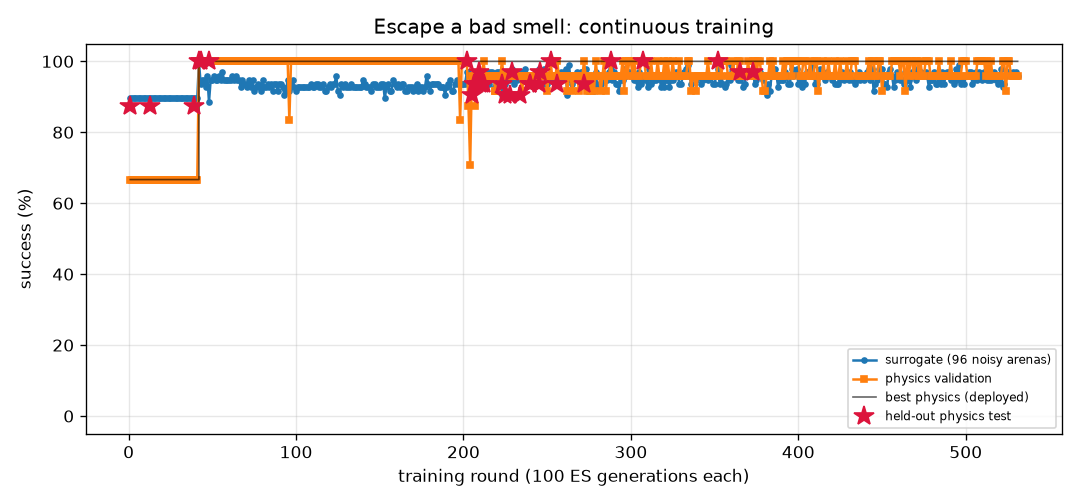
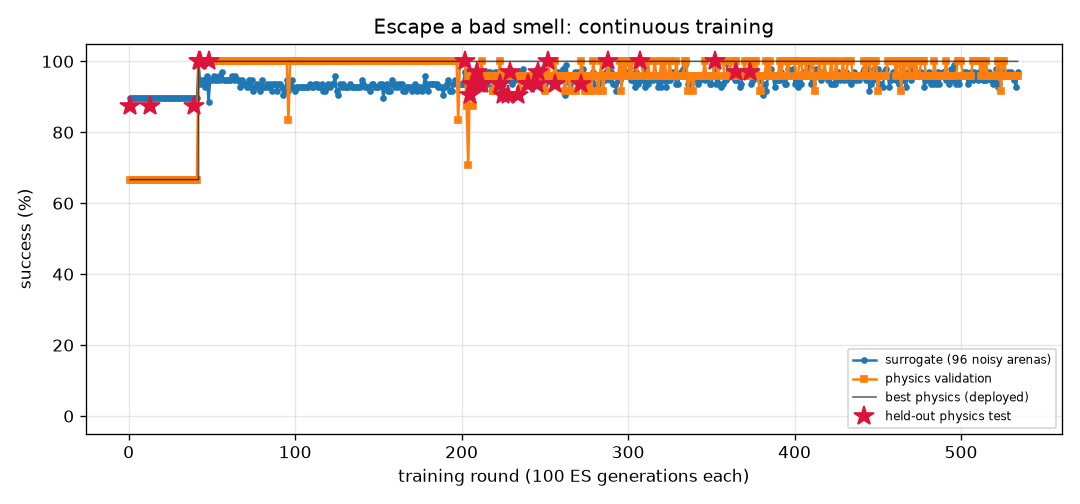
FlyLab: continuous training progress
- walk_forward: optimal, physics val 100% of 24, round 121
- turn: optimal, physics val 100% of 24, round 545
- goto: optimal, physics val 100% of 24, round 114
- odor_seek: optimal, physics val 100% of 24, round 108
- odor_avoid: optimal, physics val 100% of 24, round 534
- light_seek: optimal, physics val 100% of 24, round 299
- light_avoid: optimal, physics val 100% of 24, round 265

diff --git a/projects/09_flylab/training/turn/REPORT.md b/projects/09_flylab/training/turn/REPORT.md
@@ -1,14 +1,14 @@
 # Turn in place (`turn`) — training report
 
-*Auto-generated by `train_brains.py`, last updated 2026-10-20T07:53:24.*
+*Auto-generated by `train_brains.py`, last updated 2026-10-20T08:15:18.*
 
 ![curve](curve.png)
 
 | | |
 |---|---|
-| rounds | 540 |
-| ES generations | 54000 |
-| physics runs | 13206 |
+| rounds | 545 |
+| ES generations | 54500 |
+| physics runs | 13326 |
 | status | **optimal** |
 | best brain | round 80: physics validation **100%** on 24 arenas, surrogate 100% |
 | held-out physics test | **97%** on 32 unseen arenas (95% CI 84%-99%) (errors: [1.6, 3.3, 6.3, 3.7, 1.1, 0.4, 2.4, 2.9, 0.1, 2.6, 0.5, 2.7, 1.5, 3.1, 4.5, 0.2, 0.5, 1.1, 2.0, 4.4, 2.8, 3.2, 0.3, 2.2, 0.5, 3.0, 0.3, 5.4, 0.4, 1.0, 4.7, 10.7]) |
@@ -17,11 +17,6 @@ Physics error per arena: deg from target heading (< 20 = success).
 
 | round | level | gens | sigma | surrogate | physics val | val errors | test | note |
 |---:|---:|---:|---:|---:|---:|---|---:|---|
-| 501 | 3 | 50100 | 0.024 | 100% | 75% | [5.9, 6.8, 2.8, 1.9, 3.0, 1.2, 5.5, 3.1, 3.1, 1.4, 4.0, 0.6, 0.2, 2.1, 4.0, 2.3, 0.8, 1.2, 2.0, 2.1, 5.5, 1.1, 6.6, 3.6] |  |  |
-| 502 | 3 | 50200 | 0.024 | 100% | 79% | [7.0, 8.4, 6.5, 4.2, 3.5, 1.9, 3.2, 5.6, 3.9, 0.5, 3.6, 1.3, 0.1, 1.3, 4.6, 0.9, 1.0, 0.7, 1.6, 4.1, 5.4, 0.8, 4.5, 1.8] |  |  |
-| 503 | 3 | 50300 | 0.024 | 99% | 96% | [1.8, 6.0, 3.4, 3.4, 5.1, 1.7, 5.4, 6.4, 5.3, 0.4, 4.1, 0.9, 2.6, 2.9, 2.7, 0.5, 0.6, 0.9, 1.3, 1.0, 3.6, 1.3, 4.1, 0.3] |  |  |
-| 504 | 3 | 50400 | 0.025 | 98% | 71% | [6.9, 7.8, 1.8, 1.7, 0.3, 4.1, 2.5, 7.2, 4.6, 0.4, 3.4, 2.6, 1.5, 3.3, 3.5, 2.1, 3.0, 0.7, 1.6, 1.7, 7.7, 3.1, 4.3, 4.9] |  | restart from best |
-| 505 | 3 | 50500 | 0.024 | 99% | 79% | [5.6, 8.4, 8.0, 2.9, 3.6, 2.0, 3.0, 0.4, 4.4, 2.0, 3.3, 1.6, 1.0, 4.5, 2.9, 0.4, 1.1, 0.9, 0.0, 2.0, 6.7, 0.1, 1.3, 3.4] |  |  |
 | 506 | 3 | 50600 | 0.025 | 98% | 92% | [4.1, 7.5, 0.2, 0.6, 1.3, 0.0, 4.0, 3.9, 4.1, 0.0, 4.4, 1.6, 1.0, 3.8, 3.1, 0.5, 1.6, 0.0, 0.8, 1.0, 4.8, 0.1, 4.2, 3.2] |  |  |
 | 507 | 3 | 50700 | 0.025 | 99% | 75% | [4.1, 2.4, 4.8, 2.6, 2.0, 3.9, 6.8, 7.1, 6.1, 0.3, 6.2, 1.1, 0.9, 0.1, 6.1, 1.4, 1.3, 2.3, 1.0, 2.7, 3.5, 1.5, 6.3, 4.7] |  |  |
 | 508 | 3 | 50800 | 0.025 | 98% | 96% | [8.1, 8.7, 0.0, 1.2, 8.3, 1.6, 4.7, 1.0, 2.8, 1.9, 3.9, 1.1, 3.5, 2.8, 2.8, 2.2, 0.6, 1.2, 2.2, 2.0, 5.5, 0.6, 2.4, 3.8] |  | restart from best |
@@ -57,3 +52,8 @@ Physics error per arena: deg from target heading (< 20 = success).
 | 538 | 3 | 53800 | 0.025 | 99% | 79% | [5.9, 4.0, 4.1, 0.8, 0.8, 0.6, 4.6, 6.2, 4.8, 1.0, 4.4, 1.7, 0.8, 2.7, 5.8, 2.5, 1.1, 1.4, 0.8, 0.1, 2.3, 0.1, 4.7, 4.9] |  |  |
 | 539 | 3 | 53900 | 0.025 | 99% | 75% | [3.4, 8.3, 5.6, 1.1, 2.0, 2.6, 4.8, 3.9, 3.4, 1.0, 4.2, 0.9, 1.8, 1.4, 4.2, 1.5, 1.2, 0.2, 0.7, 0.8, 5.2, 2.1, 3.7, 3.9] |  |  |
 | 540 | 3 | 54000 | 0.025 | 100% | 83% | [2.4, 3.4, 6.3, 1.3, 2.4, 0.9, 7.5, 5.6, 8.3, 1.4, 5.9, 3.2, 0.6, 0.7, 6.0, 4.4, 3.4, 5.7, 3.6, 3.6, 1.4, 2.3, 7.0, 3.3] |  | restart from best |
+| 541 | 3 | 54100 | 0.024 | 100% | 88% | [2.4, 7.1, 5.8, 4.2, 1.1, 1.3, 3.2, 2.9, 5.9, 0.4, 4.2, 0.1, 1.7, 1.9, 2.3, 0.7, 0.4, 0.3, 0.3, 1.3, 3.5, 0.4, 5.9, 1.4] |  |  |
+| 542 | 3 | 54200 | 0.024 | 99% | 88% | [5.6, 2.2, 6.7, 0.9, 13.4, 4.8, 7.0, 9.2, 8.2, 15.3, 4.5, 1.9, 0.7, 0.3, 0.3, 3.8, 2.9, 5.3, 4.0, 5.7, 3.7, 0.2, 7.4, 10.2] |  |  |
+| 543 | 3 | 54300 | 0.025 | 98% | 83% | [10.5, 3.6, 5.7, 0.6, 17.5, 6.5, 7.8, 9.8, 8.6, 3.1, 5.7, 4.4, 3.0, 0.8, 5.3, 4.1, 4.4, 15.5, 14.5, 3.0, 5.0, 4.0, 8.4, 10.1] |  |  |
+| 544 | 3 | 54400 | 0.025 | 99% | 100% | [8.7, 0.6, 3.5, 2.9, 3.0, 2.2, 9.9, 8.8, 8.6, 11.7, 5.3, 3.1, 1.0, 0.3, 3.9, 2.6, 2.7, 3.2, 2.7, 3.6, 6.5, 2.4, 5.2, 3.5] |  | restart from best |
+| 545 | 3 | 54500 | 0.024 | 99% | 88% | [6.3, 2.0, 1.9, 1.2, 1.6, 11.4, 5.6, 5.2, 4.7, 1.9, 3.6, 0.6, 0.4, 2.2, 3.4, 2.7, 0.4, 1.4, 1.3, 1.7, 5.3, 2.0, 5.2, 3.6] |  |  |

diff --git a/projects/09_flylab/training/odor_avoid/REPORT.md b/projects/09_flylab/training/odor_avoid/REPORT.md
@@ -1,14 +1,14 @@
 # Escape a bad smell (`odor_avoid`) — training report
 
-*Auto-generated by `train_brains.py`, last updated 2026-10-18T12:11:23.*
+*Auto-generated by `train_brains.py`, last updated 2026-10-20T08:14:58.*
 
 ![curve](curve.png)
 
 | | |
 |---|---|
-| rounds | 531 |
-| ES generations | 53100 |
-| physics runs | 10050 |
+| rounds | 534 |
+| ES generations | 53400 |
+| physics runs | 10122 |
 | status | **optimal** |
 | best brain | round 373: physics validation **100%** on 24 arenas, surrogate 97% |
 | held-out physics test | **97%** on 32 unseen arenas (95% CI 84%-99%) (errors: [62.0, 57.4, 62.6, 61.9, 59.0, 61.6, 56.5, 60.7, 31.7, 60.9, 63.1, 57.1, 61.1, 62.1, 61.5, 60.2, 62.2, 55.2, 62.1, 54.2, 61.3, 62.0, 58.0, 61.9, 59.8, 56.5, 56.3, 56.4, 56.3, 57.7, 61.9, 32.4]) |
@@ -17,9 +17,6 @@ Physics error per arena: mm gained away from source (> 6 without first approachi
 
 | round | level | gens | sigma | surrogate | physics val | val errors | test | note |
 |---:|---:|---:|---:|---:|---:|---|---:|---|
-| 492 | 3 | 49200 | 0.027 | 96% | 96% | [63.2, 58.8, 56.3, 61.5, 61.7, 62.1, 61.6, 58.5, 60.7, 55.6, 47.1, 62.0, 51.2, 55.5, 41.2, 60.5, 62.4, 61.5, 55.2, 55.2, 62.5, 58.5, 58.9, 58.3] |  |  |
-| 493 | 3 | 49300 | 0.026 | 94% | 96% | [63.5, 55.8, 56.1, 56.5, 60.9, 60.8, 60.6, 58.0, 60.9, 59.8, 55.6, 61.2, 51.1, 57.2, 41.9, 60.6, 61.7, 61.9, 55.3, 58.4, 61.4, 53.9, 61.9, 53.1] |  | restart from best |
-| 494 | 3 | 49400 | 0.026 | 98% | 96% | [62.7, 60.3, 56.3, 60.8, 62.3, 41.5, 62.2, 40.2, 62.0, 39.1, 38.2, 61.9, 51.6, 56.7, 39.0, 61.9, 62.2, 61.3, 54.5, 56.7, 62.2, 46.4, 60.0, 36.2] |  |  |
 | 495 | 3 | 49500 | 0.025 | 95% | 96% | [63.1, 61.2, 56.6, 56.8, 62.2, 61.1, 60.5, 10.1, 60.9, 41.9, 60.2, 62.4, 51.3, 55.4, 10.7, 61.9, 61.9, 62.1, 54.2, 59.7, 61.9, 38.1, 59.6, 56.2] |  |  |
 | 496 | 3 | 49600 | 0.027 | 99% | 96% | [62.5, 59.2, 56.6, 60.0, 62.4, 62.3, 62.5, 57.0, 60.7, 61.6, 62.2, 61.9, 54.4, 56.5, 39.8, 61.5, 62.3, 61.3, 54.7, 56.7, 61.8, 61.7, 60.0, 48.8] |  |  |
 | 497 | 3 | 49700 | 0.025 | 94% | 96% | [61.4, 60.1, 56.6, 60.8, 61.0, 62.1, 62.0, 49.8, 61.9, 45.0, 60.1, 62.0, 50.8, 56.4, 44.5, 61.2, 61.7, 61.7, 54.0, 56.1, 61.5, 38.7, 59.4, 48.9] |  | restart from best |
@@ -57,3 +54,6 @@ Physics error per arena: mm gained away from source (> 6 without first approachi
 | 529 | 3 | 52900 | 0.026 | 96% | 96% | [63.4, 61.3, 55.9, 58.8, 61.7, 62.8, 62.8, 62.9, 61.0, 61.4, 61.3, 62.6, 54.7, 57.9, 44.7, 62.7, 62.5, 62.5, 55.4, 56.5, 62.6, 62.8, 58.6, 63.5] |  | restart from best |
 | 530 | 3 | 53000 | 0.026 | 97% | 96% | [62.4, 60.4, 55.7, 61.0, 62.2, 60.8, 60.4, 53.4, 60.4, 60.4, 62.4, 62.1, 54.6, 56.8, 41.4, 61.7, 62.1, 62.3, 55.4, 56.7, 61.8, 60.7, 60.7, 45.6] |  |  |
 | 531 | 3 | 53100 | 0.026 | 96% | 96% | [63.4, 60.3, 56.1, 61.0, 62.3, 62.5, 61.4, 58.2, 60.1, 62.1, 61.3, 61.8, 52.2, 55.6, 44.6, 62.1, 62.5, 62.5, 55.4, 56.6, 62.0, 62.0, 59.1, 60.3] |  |  |
+| 532 | 3 | 53200 | 0.026 | 95% | 96% | [62.9, 57.3, 56.4, 60.0, 62.5, 61.6, 61.6, 38.6, 61.9, 48.8, 61.3, 62.0, 50.8, 55.7, 29.9, 62.4, 62.2, 60.4, 54.9, 57.3, 62.1, 62.0, 61.1, 42.3] |  |  |
+| 533 | 3 | 53300 | 0.027 | 93% | 96% | [60.0, 56.6, 56.1, 56.5, 61.7, 61.4, 60.4, 17.4, 61.8, 56.8, 60.5, 61.7, 51.4, 55.6, 42.2, 61.4, 61.9, 61.6, 54.4, 55.8, 61.4, 47.0, 60.2, 43.4] |  | restart from best |
+| 534 | 3 | 53400 | 0.026 | 97% | 96% | [63.1, 60.6, 56.1, 61.3, 61.3, 62.3, 61.1, 57.2, 61.4, 61.8, 61.6, 61.5, 54.6, 57.1, 35.9, 60.6, 62.1, 61.9, 54.9, 59.5, 62.2, 60.7, 55.5, 61.4] |  |  |

diff --git a/projects/09_flylab/training/TRAINING.md b/projects/09_flylab/training/TRAINING.md
@@ -1,15 +1,15 @@
 # FlyLab brains — continuous training log
 
-*Auto-generated by `train_brains.py`, last updated 2026-10-20T07:57:43.*
+*Auto-generated by `train_brains.py`, last updated 2026-10-20T08:15:18.*
 
 Every skill has its own brain and its own training process: surrogate ES rounds, physics validation in MuJoCo, keep-the-best selection, and a held-out physics test that is never used for selection. See each skill's report for its full round-by-round history. Mastery is progressive: passing a level (100% physics validation, >=95% surrogate) doubles the validation and test arena sets; a brain is **optimal** once it holds up at level 3 (>=95% of 24 validation arenas) AND scores >=90% on the 32 held-out test arenas. Test columns show 95% Wilson confidence intervals.
 
 | skill | rounds | ES generations | physics runs | surrogate | physics val | **physics test** | status |
 |---|---:|---:|---:|---:|---:|---:|---|
 | [Walk forward](walk_forward/REPORT.md) | 121 | 12100 | 2918 | 100% | 100% of 24 | 100% of 32 (CI 89-100%) | **optimal** |
-| [Turn in place](turn/REPORT.md) | 540 | 54000 | 13206 | 100% | 100% of 24 | 97% of 32 (CI 84-99%) | **optimal** |
+| [Turn in place](turn/REPORT.md) | 545 | 54500 | 13326 | 100% | 100% of 24 | 97% of 32 (CI 84-99%) | **optimal** |
 | [Go to a location](goto/REPORT.md) | 114 | 11400 | 2622 | 100% | 100% of 24 | 100% of 32 (CI 89-100%) | **optimal** |
 | [Find food by smell](odor_seek/REPORT.md) | 108 | 10800 | 1958 | 100% | 100% of 24 | 100% of 32 (CI 89-100%) | **optimal** |
-| [Escape a bad smell](odor_avoid/REPORT.md) | 531 | 53100 | 10050 | 97% | 100% of 24 | 97% of 32 (CI 84-99%) | **optimal** |
+| [Escape a bad smell](odor_avoid/REPORT.md) | 534 | 53400 | 10122 | 97% | 100% of 24 | 97% of 32 (CI 84-99%) | **optimal** |
 | [Walk toward light](light_seek/REPORT.md) | 299 | 29900 | 4024 | 100% | 100% of 24 | 100% of 32 (CI 89-100%) | **optimal** |
 | [Hide from light](light_avoid/REPORT.md) | 265 | 26500 | 6632 | 100% | 100% of 24 | 100% of 32 (CI 89-100%) | **optimal** |
